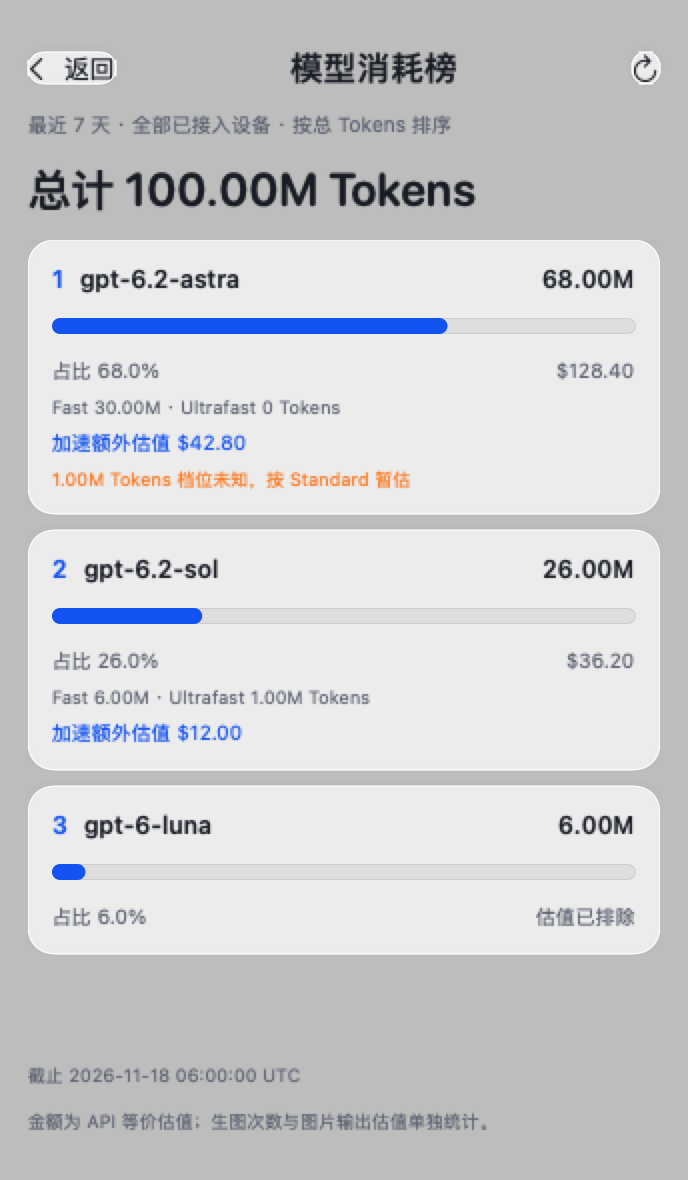
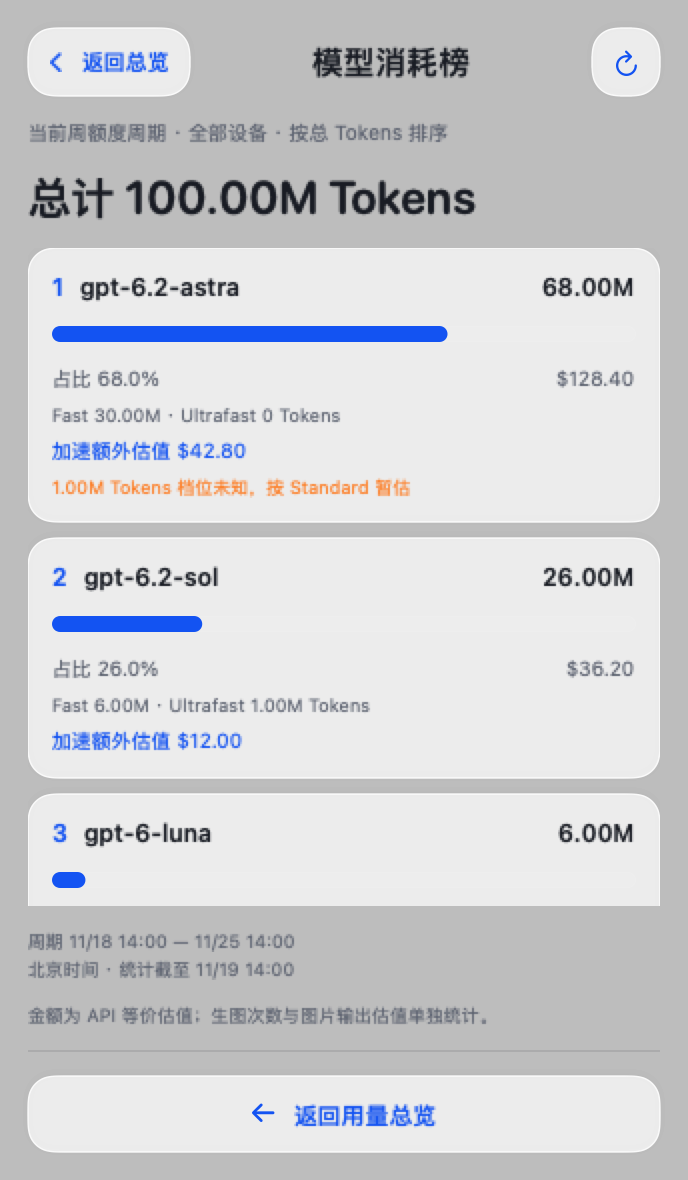
Use the current quota period for model rankings and add clear return navigation
Version 0.4.1. Rank deduplicated model usage from the current weekly quota start through the query time, using the official reset boundary. Missing or expired quota windows show a waiting state; old rolling-week caches are not presented as current-period data. Display period boundaries in Beijing time in the app and Sheet.

Keep visible return controls above and below the scrolling list, reopen the popover on the overview, resize on navigation, and restart its existing dismissal timer. Update the illustrative screenshot and documentation.

Validation: receiver boundary/reset tests, 21 Swift checks, macOS release build and native rendered preview passed. Live Sheet reflects the current official quota period.

diff --git a/Sources/CodexQuotaApp/DashboardView.swift b/Sources/CodexQuotaApp/DashboardView.swift
@@ -14,6 +14,19 @@ final class DashboardViewModel: ObservableObject {
     var reconnect: () -> Void = {}
     var openSheet: () -> Void = {}
     var quit: () -> Void = {}
+    var navigationChanged: () -> Void = {}
+
+    func showOverview() {
+        guard showsModelRankings else { return }
+        showsModelRankings = false
+        navigationChanged()
+    }
+
+    func showRankings() {
+        guard !showsModelRankings else { return }
+        showsModelRankings = true
+        navigationChanged()
+    }
 }
 
 private struct ControlCenterMaterial: NSViewRepresentable {
@@ -36,7 +49,7 @@ struct DashboardView: View {
 
     var body: some View {
         TimelineView(.periodic(from: .now, by: 1)) { context in
-            if model.showsModelRankings { rankingCard() } else { card(now: context.date) }
+            if model.showsModelRankings { rankingCard(now: context.date) } else { card(now: context.date) }
         }
         .frame(width: 344)
         .background(ControlCenterMaterial())
@@ -149,8 +162,8 @@ struct DashboardView: View {
                 Text("等待采集器首次上传").font(.system(size: 10)).foregroundColor(muted)
             }
 
-            Button { model.showsModelRankings = true } label: {
-                HStack { Label("最近 7 天模型消耗榜", systemImage: "chart.bar.xaxis"); Spacer(); Image(systemName: "chevron.right") }
+            Button(action: model.showRankings) {
+                HStack { Label("当前周期模型消耗榜", systemImage: "chart.bar.xaxis"); Spacer(); Image(systemName: "chevron.right") }
                     .font(.system(size: 11, weight: .medium)).padding(11)
             }.buttonStyle(ControlCenterButtonStyle())
 
@@ -180,17 +193,31 @@ struct DashboardView: View {
         .foregroundColor(ink)
     }
 
-    private func rankingCard() -> some View {
+    private func rankingCard(now: Date) -> some View {
         VStack(alignment: .leading, spacing: 12) {
-            HStack {
-                Button { model.showsModelRankings = false } label: { Label("返回", systemImage: "chevron.left") }.buttonStyle(ControlCenterButtonStyle())
-                Spacer()
-                Text("模型消耗榜").font(.system(size: 17, weight: .semibold))
-                Spacer()
-                Button(action: model.refresh) { Image(systemName: "arrow.clockwise") }.disabled(model.refreshing).buttonStyle(ControlCenterButtonStyle())
-            }
-            Text("最近 7 天 · 全部已接入设备 · 按总 Tokens 排序").font(.system(size: 10)).foregroundColor(muted)
-            if let rankings = model.dashboard?.model_rankings {
+            HStack(spacing: 10) {
+                Button(action: model.showOverview) {
+                    Label("返回总览", systemImage: "chevron.left")
+                        .font(.system(size: 11, weight: .semibold))
+                        .foregroundColor(blue)
+                        .padding(.horizontal, 10).frame(height: 34)
+                        .contentShape(Rectangle())
+                }
+                .buttonStyle(ControlCenterButtonStyle())
+                .accessibilityHint("返回 Tokivue 用量总览，不关闭弹窗")
+                Spacer(minLength: 0)
+                Text("模型消耗榜").font(.system(size: 16, weight: .semibold))
+                Spacer(minLength: 0)
+                Button(action: model.refresh) {
+                    Image(systemName: "arrow.clockwise")
+                        .font(.system(size: 12, weight: .medium))
+                        .foregroundColor(blue).frame(width: 34, height: 34)
+                }
+                .disabled(model.refreshing).buttonStyle(ControlCenterButtonStyle())
+                .accessibilityLabel("刷新模型消耗榜")
+            }.fixedSize(horizontal: false, vertical: true)
+            Text("当前周额度周期 · 全部设备 · 按总 Tokens 排序").font(.system(size: 10)).foregroundColor(muted)
+            if let rankings = model.dashboard?.model_rankings, rankings.isCurrent(at: now) {
                 Text("总计 \(tokens(rankings.total_tokens)) Tokens").font(.system(size: 23, weight: .semibold, design: .rounded))
                 ScrollView {
                     VStack(spacing: 8) {
@@ -207,17 +234,31 @@ struct DashboardView: View {
                             }.padding(12).module()
                         }
                     }
-                }.frame(height: 400)
-                if rankings.models.isEmpty { Text("最近 7 天暂无已采集记录").font(.system(size: 12)).foregroundColor(muted) }
-                Text("截止 " + rankings.to.replacingOccurrences(of: "T", with: " ").prefix(19) + " UTC").font(.system(size: 9)).foregroundColor(muted)
+                }.frame(maxHeight: .infinity)
+                if rankings.models.isEmpty { Text("当前周期暂无已采集记录").font(.system(size: 12)).foregroundColor(muted) }
+                VStack(alignment: .leading, spacing: 3) {
+                    Text("周期 \(date(rankings.startDate, format: "MM/dd HH:mm")) — \(date(rankings.windowEndDate, format: "MM/dd HH:mm"))")
+                    Text("北京时间 · 统计截至 \(date(rankings.observedDate, format: "MM/dd HH:mm"))")
+                }.font(.system(size: 9)).foregroundColor(muted)
             } else {
-                Text("接收端升级后即可显示模型周榜。").font(.system(size: 13))
-                Text("本地应用已就绪，请按部署说明更新 Apps Script 接收端。").font(.system(size: 11)).foregroundColor(muted)
+                Text("等待当前周期排行").font(.system(size: 13))
+                Text("正在等待有效的周额度重置时间和同步数据，请刷新看板。").font(.system(size: 11)).foregroundColor(muted)
                 Spacer()
                 Button("打开 Google Sheets", action: model.openSheet)
             }
             if model.error != nil { Text("离线缓存：榜单可能不是最新数据").font(.system(size: 10)).foregroundColor(.orange) }
             Text("金额为 API 等价估值；生图次数与图片输出估值单独统计。").font(.system(size: 9)).foregroundColor(muted)
+            Divider().opacity(0.6)
+            Button(action: model.showOverview) {
+                Label("返回用量总览", systemImage: "arrow.left")
+                    .font(.system(size: 12, weight: .semibold))
+                    .foregroundColor(blue)
+                    .frame(maxWidth: .infinity).frame(height: 38)
+                    .contentShape(Rectangle())
+            }
+            .buttonStyle(ControlCenterButtonStyle())
+            .accessibilityHint("返回额度、今日 Tokens 和设备估值")
+            .fixedSize(horizontal: false, vertical: true)
         }.padding(14).frame(height: 590).foregroundColor(ink)
     }
 

diff --git a/Sources/CodexQuotaApp/StatusMenuController.swift b/Sources/CodexQuotaApp/StatusMenuController.swift
@@ -37,6 +37,10 @@ final class StatusMenuController: NSObject, NSPopoverDelegate {
             NSWorkspace.shared.open(self.client.sheetURL)
         }
         model.quit = { NSApp.terminate(nil) }
+        model.navigationChanged = { [weak self] in
+            // Re-measure after SwiftUI has applied the navigation state change.
+            DispatchQueue.main.async { self?.resizeCard() }
+        }
         popover.behavior = .transient
         popover.delegate = self
         popover.animates = true
@@ -61,12 +65,27 @@ final class StatusMenuController: NSObject, NSPopoverDelegate {
     @objc private func toggleCard(_ sender: Any?) {
         if popover.isShown { popover.performClose(nil); return }
         guard let button = statusItem.button else { return }
+        model.showOverview()
+        resizeCard()
         if model.fetchedAt.map({ Date().timeIntervalSince($0) > 60 }) ?? true { refresh() }
         popover.show(relativeTo: button.bounds, of: button, preferredEdge: .minY)
     }
 
     func popoverDidShow(_ notification: Notification) {
         startOutsideClickMonitoring()
+        resetAutoDismiss()
+    }
+
+    private func resizeCard() {
+        guard !stopped, let host = popover.contentViewController else { return }
+        host.view.layoutSubtreeIfNeeded()
+        let size = host.view.fittingSize
+        host.preferredContentSize = size
+        popover.contentSize = size
+        if popover.isShown { resetAutoDismiss() }
+    }
+
+    private func resetAutoDismiss() {
         cancelAutoDismiss()
         let timer = Timer(timeInterval: 30, repeats: false) { [weak self] _ in
             MainActor.assumeIsolated {

diff --git a/Sources/CodexQuotaTests/main.swift b/Sources/CodexQuotaTests/main.swift
@@ -35,6 +35,14 @@ private let tests: [(String, () throws -> Void)] = [
         try expect(ranked.model_rankings?.models.first?.fast_tokens,80)
         try expect(ranked.model_rankings?.models.first?.extra_cost,0.6)
         try expect(ranked.model_rankings?.total_tokens,100)
+        let at = ISO8601DateFormatter().date(from: "2026-11-18T12:00:00Z")!
+        try expect(ranked.model_rankings?.isCurrent(at: at),false)
+        let currentJSON = json.replacingOccurrences(of: "\"from\":", with: "\"period_kind\":\"quota_week\",\"period_available\":true,\"window_end\":\"2026-11-18T13:00:00Z\",\"from\":")
+        let current = try SheetsDashboardClient.parse(Data(currentJSON.utf8)).model_rankings!
+        try expect(current.isCurrent(at: at),true)
+        try expect(current.isCurrent(at: ISO8601DateFormatter().date(from: "2026-11-18T13:00:00Z")!),false)
+        let unavailable = try SheetsDashboardClient.parse(Data(currentJSON.replacingOccurrences(of: "\"period_available\":true", with: "\"period_available\":false").utf8)).model_rankings!
+        try expect(unavailable.isCurrent(at: at),false)
     }),
     ("表格地址来自本地配置且仅接受 Google Sheets HTTPS", {
         let directory = FileManager.default.temporaryDirectory.appendingPathComponent(UUID().uuidString)

diff --git a/Sources/CodexQuotaCore/SheetsDashboard.swift b/Sources/CodexQuotaCore/SheetsDashboard.swift
@@ -14,6 +14,25 @@ public struct SheetsDashboard: Codable, Equatable, Sendable {
         public let excluded: Bool
     }
     public struct ModelRankings: Codable, Equatable, Sendable {
+        public let period_kind: String?
+        public let period_available: Bool?
+        public let window_end: String?
+
+        public func isCurrent(at now: Date = Date()) -> Bool {
+            guard period_kind == "quota_week", period_available == true,
+                  let end = windowEndDate, let start = Self.parseDate(from) else { return false }
+            return start <= now && now < end
+        }
+
+        public var windowEndDate: Date? { window_end.flatMap(Self.parseDate) }
+        public var startDate: Date? { Self.parseDate(from) }
+        public var observedDate: Date? { Self.parseDate(to) }
+
+        private static func parseDate(_ value: String) -> Date? {
+            let parser = ISO8601DateFormatter()
+            parser.formatOptions = [.withInternetDateTime, .withFractionalSeconds]
+            return parser.date(from: value) ?? ISO8601DateFormatter().date(from: value)
+        }
         public let from: String
         public let to: String
         public let total_tokens: Int64

diff --git a/Sources/CodexQuotaApp/main.swift b/Sources/CodexQuotaApp/main.swift
@@ -26,6 +26,7 @@ if let previewIndex = CommandLine.arguments.firstIndex(of: "--render-dashboard-p
         try MainActor.assumeIsolated {
             _ = NSApplication.shared
             let model = DashboardViewModel()
+            model.showsModelRankings = CommandLine.arguments.contains("--rankings")
             let client = SheetsDashboardClient()
             defer { client.stop() }
             if let cache = client.cached() {

diff --git a/README.md b/README.md
@@ -31,14 +31,16 @@ Tokivue 将本地用量采集器、Google Sheets 汇总接收端和 macOS 原生
 ## 0.4 新功能
 
 - **自动检查官网价格**：云端约每 6 小时检查 Standard/Fast 价格，加入新模型并记录变更，保护手动改价。
-- **最近 7 天模型周榜**：跨设备去重，按总 Tokens 排序，展示模型占比与估值。
+- **当前周期模型排行**：跟随账号当前周额度重置周期，跨设备去重，按总 Tokens 排序，展示模型占比与估值。
 - **Fast 额外估值**：读取可确认的日志档位，显示加速 Tokens 与相对 Standard 的额外金额；未知档位不猜测。
 
 需要一次云端升级及 Google 授权，详见 [0.4 升级与启用指南](docs/UPGRADE-0.4.md)。仅更新 GitHub 代码不会自动开启你私有表格的触发器。升级顺序：接收端 → Mac 界面 → 各设备采集器。
 
 ### 模型周榜示意
 
-<img src="docs/images/model-rankings.png" alt="最近 7 天模型周榜，含 Fast 额外估值；虚构示例数据" width="344" />
+<img src="docs/images/model-rankings.png" alt="当前周期模型排行，含 Fast 额外估值；虚构示例数据" width="344" />
+
+0.4.1：排行榜顶部和底部均可返回总览，重新打开弹窗默认显示总览。统计范围与当前周额度周期一致；缺少有效额度快照时等待同步。
 
 示意图使用虚构数据。Fast／Ultrafast Tokens 是实际 Tokens 中的档位分类，不会再乘倍率计入总 Tokens。
 
